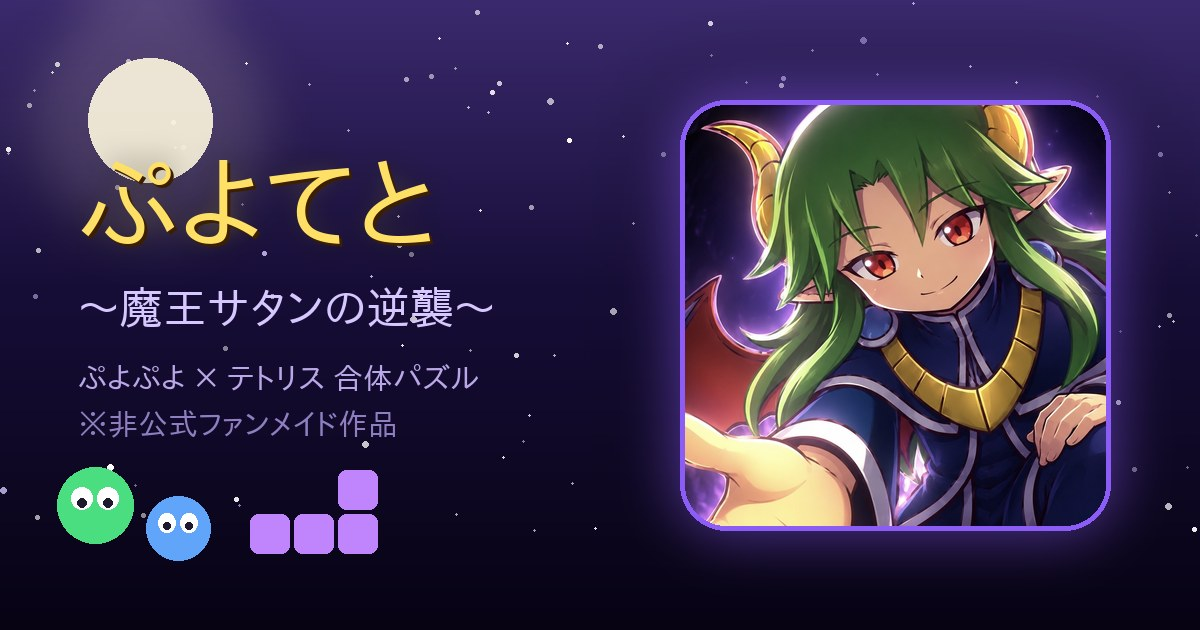
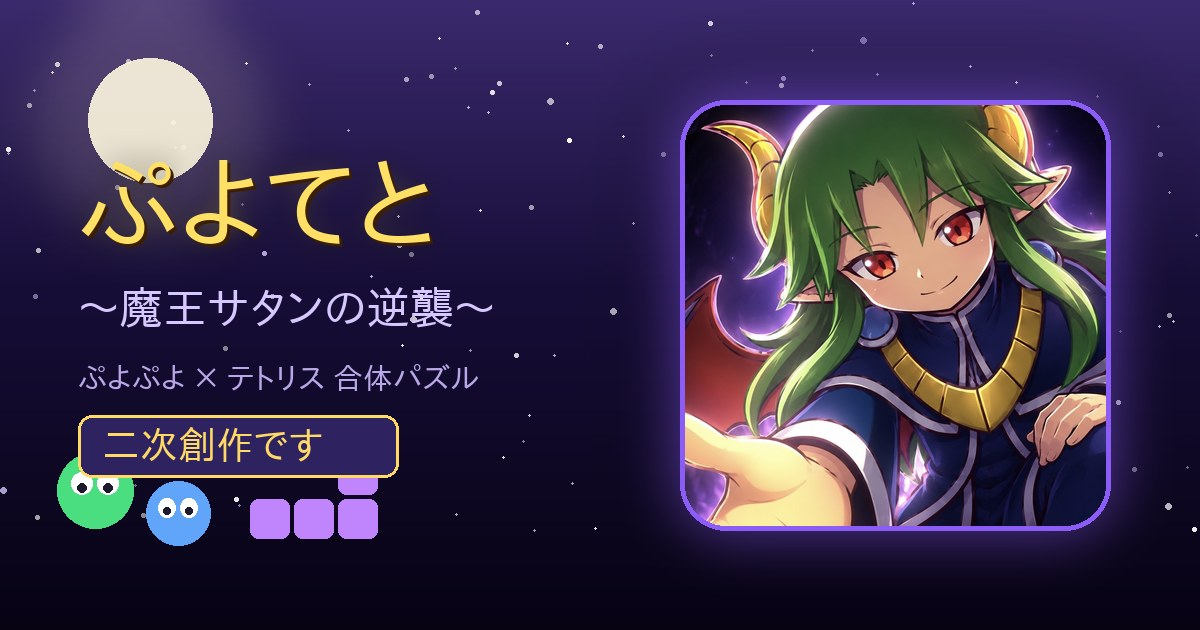
「二次創作」を大きく明記、ストーリーは完全オリジナル(AI不使用)と表記
- タイトル画面: 金色の大きな見出し「本作は二次創作です」入りの
  注意書きボックスに変更。権利帰属とストーリーがオリジナルである旨を明記
- OGP画像: 「二次創作です」の金枠バッジを追加して再生成
- meta description / og:description / og:site_name に【二次創作】を明記
- ストーリー画面・歌詞画面・READMEの表記も二次創作に統一

https://claude.ai/code/session_01H2g7EFpurHCeZps95dvt1Q

Changed region(s): [[0.0308, 0.6333, 0.3392, 0.9048]]

diff --git a/index.html b/index.html
@@ -4,15 +4,15 @@
 <meta charset="UTF-8">
 <meta name="viewport" content="width=device-width, initial-scale=1.0, user-scalable=no">
 <title>ぷよてと 〜魔王サタンの逆襲〜</title>
-<meta name="description" content="ぷよぷよ×テトリスがひとつの盤面で混ざり合う非公式ファンメイドのブラウザゲーム。テトリミノはぷよを潰して沈む!混合連鎖を決めると魔王サタンが吠える。ストーリーとオリジナル曲も収録。インストール不要で今すぐ遊べます。">
+<meta name="description" content="【二次創作】ぷよぷよ×テトリスの非公式ファンゲーム。ひとつの盤面でぷよとテトリミノが混ざり合い、混合連鎖を決めると魔王サタンが吠える。完全オリジナルのストーリー(AI不使用)とオリジナル曲も収録。インストール不要で今すぐ遊べます。">
 <meta property="og:type" content="website">
 <meta property="og:url" content="https://nanashi925.github.io/Puyoteto/">
 <meta property="og:title" content="ぷよてと 〜魔王サタンの逆襲〜">
-<meta property="og:description" content="ぷよぷよ×テトリスがひとつの盤面で混ざり合う非公式ファンメイドのブラウザゲーム。テトリミノはぷよを潰して沈む!混合連鎖で魔王サタンが吠える。ストーリーとオリジナル曲も。">
+<meta property="og:description" content="【二次創作】ぷよぷよ×テトリスの非公式ファンゲーム。混合連鎖で魔王サタンが吠える。完全オリジナルのストーリー(AI不使用)とオリジナル曲も収録。">
 <meta property="og:image" content="https://nanashi925.github.io/Puyoteto/ogp.jpg">
 <meta property="og:image:width" content="1200">
 <meta property="og:image:height" content="630">
-<meta property="og:site_name" content="ぷよてと(非公式)">
+<meta property="og:site_name" content="ぷよてと(二次創作・非公式)">
 <meta property="og:locale" content="ja_JP">
 <meta name="twitter:card" content="summary_large_image">
 <style>
@@ -139,7 +139,12 @@
     display:flex; flex-direction:column; align-items:center; justify-content:center;
     gap:12px; z-index:20; text-align:center; padding:20px;
   }
-  #ovNote{font-size:11px; color:#8d7fc0;}
+  #ovNote{
+    font-size:12px; color:#a995e0; line-height:1.7;
+    border:1px solid #5b46a8; border-radius:10px; padding:8px 14px;
+    background:rgba(46,34,96,.5);
+  }
+  #ovNote b{display:block; font-size:17px; color:#ffd966; letter-spacing:.12em;}
   .subRow{display:flex; gap:8px; flex-wrap:wrap; justify-content:center;}
   #overlay.hidden{display:none;}
   #ovTitle{font-size:clamp(22px,6vw,38px); font-weight:bold; color:#ffe066; text-shadow:0 0 16px rgba(255,224,102,.5);}
@@ -293,7 +298,7 @@
 
 <div id="overlay">
   <div id="ovTitle">ぷよてと</div>
-  <div id="ovNote">※非公式ファンメイド作品です(SEGA公式とは関係ありません)</div>
+  <div id="ovNote"><b>本作は二次創作です</b>『ぷよぷよ』『テトリス』および魔王サタンの権利は各権利者に帰属します。非公式のファン作品です。<br>ストーリーは完全オリジナル(AI不使用)。</div>
   <div id="ovMsg">フハハハハ!我こそは魔王サタン!<br>ぷよとテトリミノ、両方を従えてみせよ!</div>
   <div class="modeCol" id="modeCol">
     <button class="mode sel" data-mode="fusion">🌀 フュージョン(1人用)
@@ -311,7 +316,7 @@
   <button class="btn" id="startBtn">勝負スタート! (Enter)</button>
   <div class="subRow">
     <button class="btnSub" id="bgmStartBtn">🎵 曲をながす</button>
-    <button class="btnSub" id="storyBtn">📖 ストーリー(非公式)</button>
+    <button class="btnSub" id="storyBtn">📖 ストーリー(二次創作)</button>
     <button class="btnSub" id="lyricsBtn">🎶 歌詞</button>
   </div>
 </div>
@@ -320,7 +325,7 @@
   <div id="lyricsCard">
     <img id="lyricsImg" src="satan.jpg" alt="サタン">
     <div id="lyricsTitle">🎶 いいこじゃなくても</div>
-    <div id="lyricsSub">(demonic pact mix) ※非公式・オリジナルソング</div>
+    <div id="lyricsSub">(demonic pact mix) ※二次創作・オリジナルソング</div>
     <div id="lyricsBody">
       <p class="lyQ">女の子:(鼻をすする音)</p>
       <p class="lyG">いきたいっていうかなしさを<br>ちいさなてのひらにのせた<br>しにたいっていうよろこびも<br>なくさないようにだきしめた<br>いたいのに　まだここにいて<br>くるしいのに　いきをして<br>ねえ　かみさま　みているの?<br>このこえは　そらまでいくの?</p>
@@ -366,7 +371,7 @@
   <div id="storyCard">
     <img id="storyImg" src="satan.jpg" alt="サタン">
     <div id="storyTitle">📖 ストーリー</div>
-    <div id="storySub">※非公式・ファンストーリー</div>
+    <div id="storySub">※二次創作のファンストーリーです。本文は完全オリジナル(AI不使用)。</div>
     <div id="storyBody">
       <p>大好きでデータが沢山入っていた3DS・LLを、少女が高校2年生辺りの頃に、ヒステリックな母親に叩き割られ、真っ二つにされた。そしてその少女は。サタン達がいるぷよぷよテトリスの世界にを二度と戻って来れなくなってしまった。</p>
       <p>しかし、サタンは女の子を見捨てなかった。ずっと、ゲームの中で彼女の帰りを待っていた。</p>

diff --git a/README.md b/README.md
@@ -1,6 +1,11 @@
 # ぷよてと 〜魔王サタンの逆襲〜 😈
 
-ぷよぷよとテトリスが1つになった、ブラウザで遊べるパズルゲームです。
+> ## ⚠ 本作は二次創作です
+> 『ぷよぷよ』『テトリス』および魔王サタンをはじめとするキャラクターの権利は各権利者に帰属します。
+> 本作は非公式のファン二次創作であり、SEGA・The Tetris Company 等とは一切関係ありません。
+> 収録のストーリーは完全オリジナル(AI不使用)です。
+
+ぷよぷよとテトリスが1つになった、ブラウザで遊べる二次創作パズルゲームです。
 プレイヤーは **魔王サタン**。連鎖やテトリス消しのたびに掛け声で吠えます。
 
 ## ▶ 今すぐ遊ぶ
